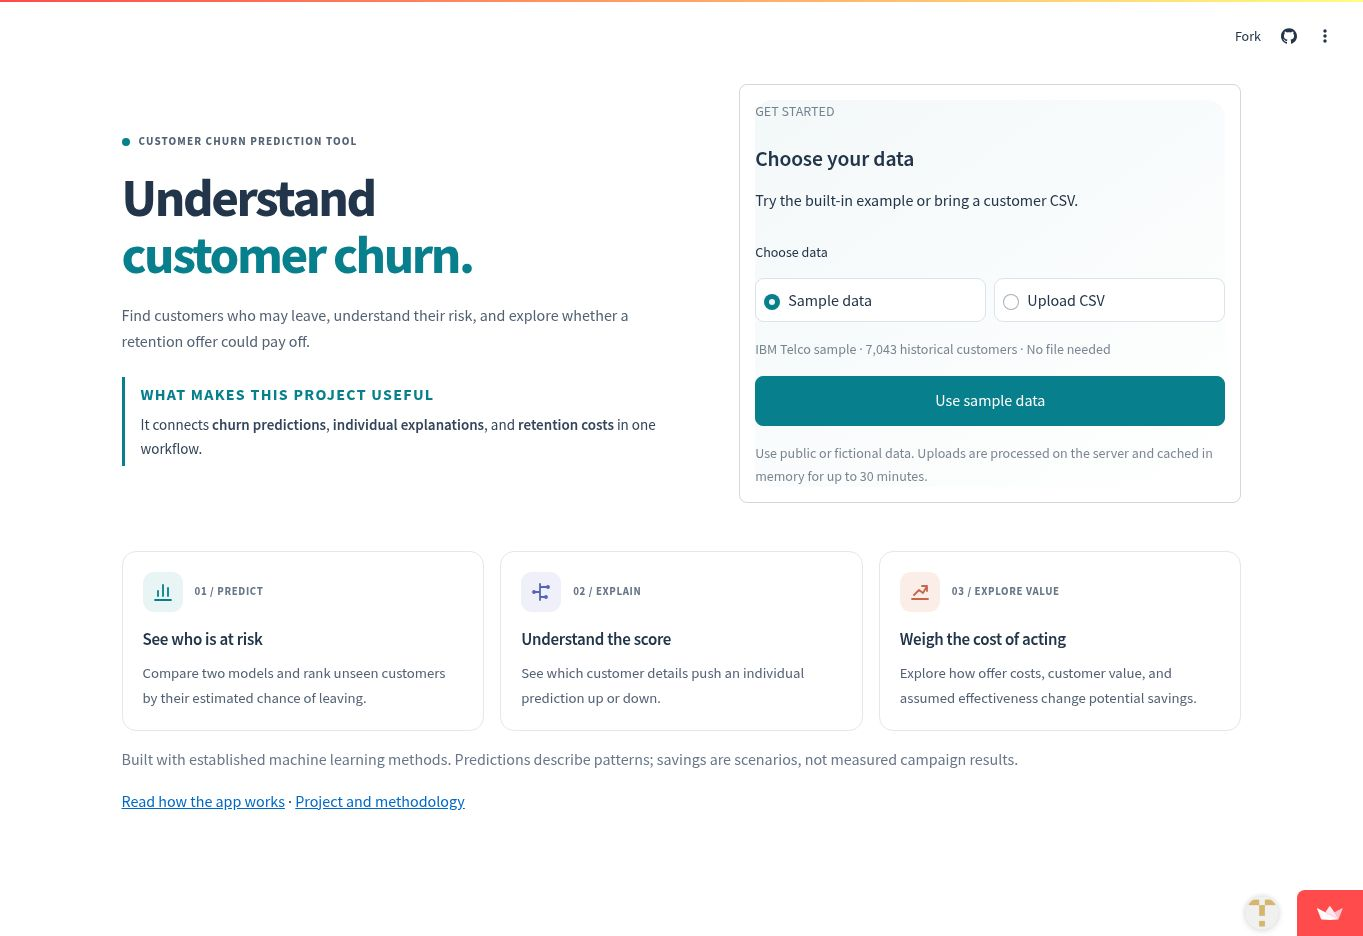
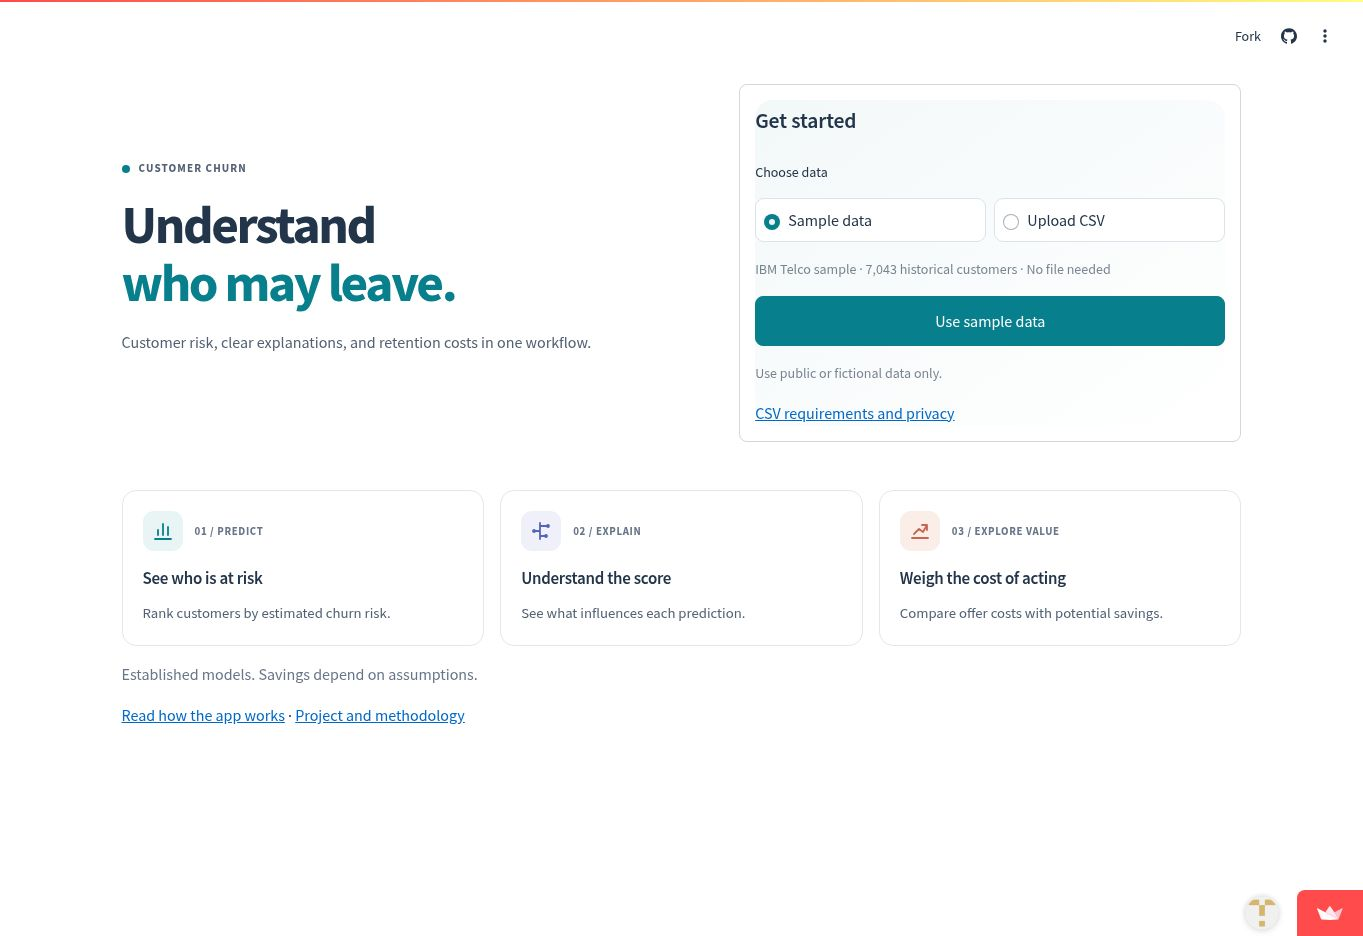
Refresh screenshots for the simplified dashboard

diff --git a/README.md b/README.md
@@ -8,9 +8,9 @@ The app compares logistic regression with XGBoost, explains individual predictio
 
 ## Dashboard preview
 
-![Welcome screen and project contribution](docs/images/welcome.jpg)
+![Welcome screen](docs/images/welcome.jpg)
 
-![Customer overview](docs/images/overview.jpg)
+![Model comparison](docs/images/overview.jpg)
 
 ## Project contribution
 
